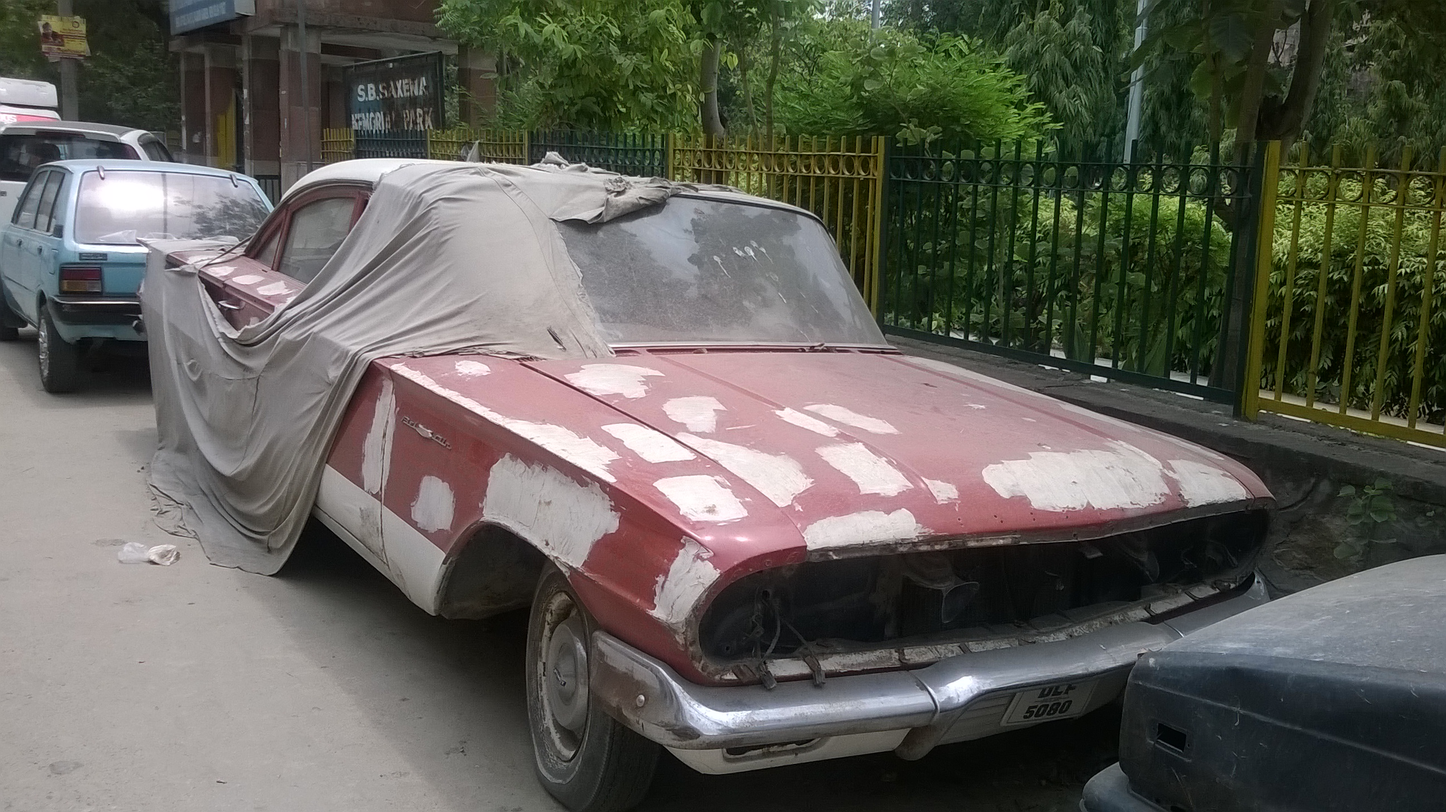
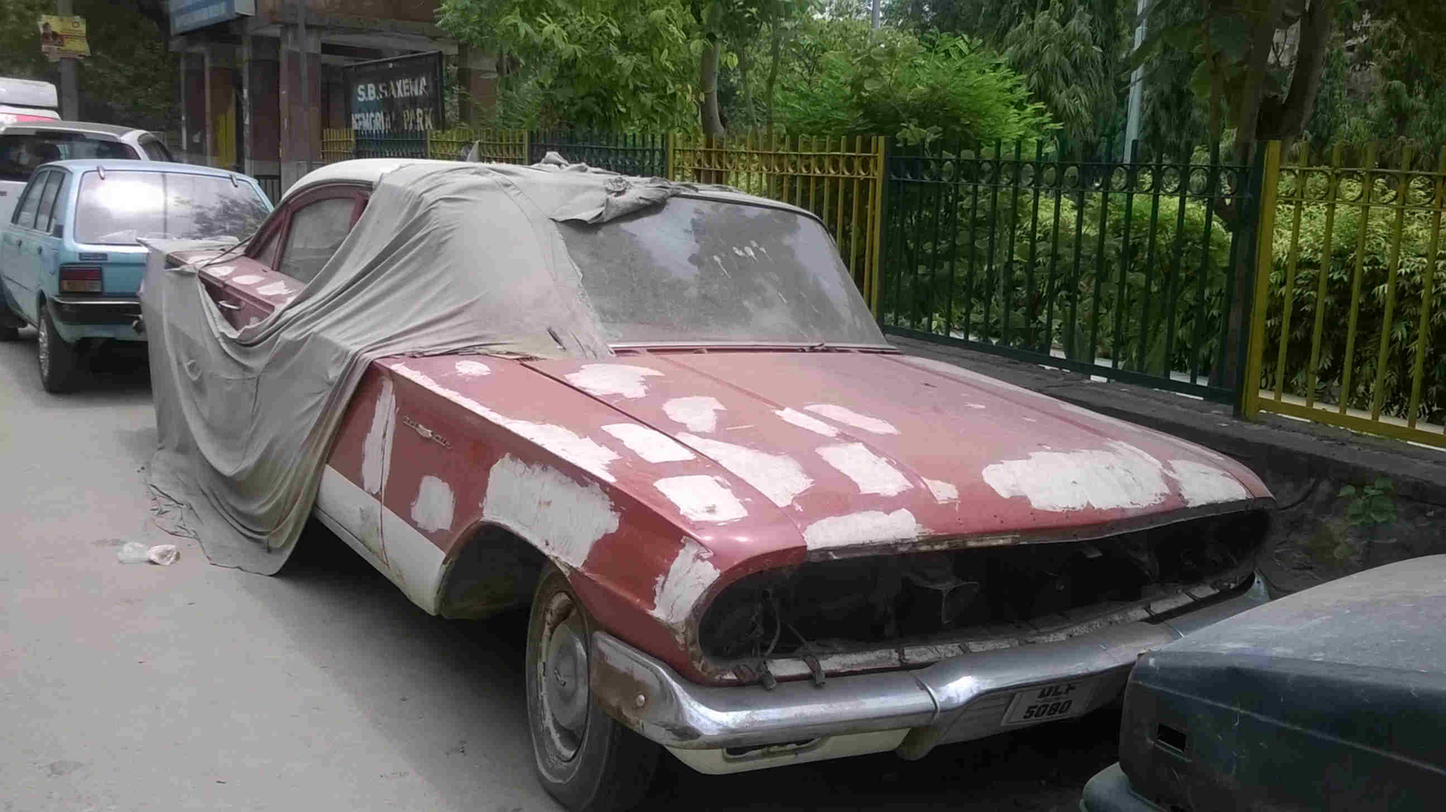
Optimised images and added some blog stuff

diff --git a/index.html b/index.html
@@ -40,7 +40,8 @@
 			<p class="lead t3">Here is what I wrote recently :</p>
 			<div class="latest-blog t4">
 				<h1 class="latest-blog-title"><a href=""><b id="post-title">Jesus Don't Want Me For A Sunbeam</b></a></h1>
-				<blockquote class="latest-blog-gist"><em>In our lives, we stay, visit, work, study, or just ‘hangout’ at certain typical places. Places which may be visually appealing and comfortable like a cafe at the corner down the road, or ...</em></blockquote><br>
+				<blockquote class="latest-blog-gist"><em>In our lives, we stay, visit, work, study, or just ‘hangout’ at certain typical places. Places which may be visually appealing and comfortable like a cafe at the corner down the road, or ...</em></blockquote>
+				<br>
 				<div class="row">
 					<span class="col-xs-6">
 				<a class="waves-effect waves-light btn blue darken-2">
@@ -59,8 +60,9 @@
 		<div class="starter-template about">
 			<h1 class="t1">About Me</h1>
 			<div class="t2">
-				<blockquote>I'm going to paraphrase Thoreau here : <b>Rather than money, than fame, than fairness, than comfort, give me love and kindness.</b></blockquote><br>
-				<p class="lead">Solely driven by the positive energy of the world, I try to utilize every bit of it into creating something meaningful and helpful for everyone. I &#10084; <b>JavaScript and node.js</b> and the web in general, for it still feels amazing to create useful applications accessible to the entire world. I also like to tinker with my custom assembled PC as well as with Ubuntu.  </p>
+				<blockquote>I'm going to paraphrase Thoreau here : <b>Rather than money, than fame, than fairness, than comfort, give me love and kindness.</b></blockquote>
+				<br>
+				<p class="lead">Solely driven by the positive energy of the world, I try to utilize every bit of it into creating something meaningful and helpful for everyone. I &#10084; <b>JavaScript and node.js</b> and the web in general, for it still feels amazing to create useful applications accessible to the entire world. I also like to tinker with my custom assembled PC as well as with Ubuntu. </p>
 			</div>
 			<p class="lead t3">Inclusion, collabloration and teamwork is something I whole heartedly enjoy, encourage and promote whenever I have leadership roles. Managing, leading, and helping fellow colleagues and juniors gives me a sense of responsibilty which I always strive to fulfill sincerely.</p>
 			<p class="lead t4">They call me an engineer by the formal records and documents, but I'm way beyond those walls. I have explored and taken thorough interest in numerous verticals and I feel more and more equipped to handle the everyday challenges in life, for today and tomorrow. Western Music, Theatre, Medicine, Anatomy, Psychology, Philanthropy, Economics and Polity, Management, Literature, and Cars; I indulge in these whenever I get time from my technical witchcraft-y projects and hangouts with my loved ones.</p>
@@ -69,12 +71,28 @@
 	<div class="container-fluid diapo" data-section-name="Blog">
 		<div class="starter-template blog">
 			<h1 class="t1">Blog</h1>
-			<p class="lead home-brief t2">Use this document as a way to quickly start any new project. Use this document as a way to quickly start any new project. Use this document as a way to quickly start any new project. Use this document as a way to quickly start any new project.</p>
-			<p class="lead t3">Here is what I wrote recently :</p>
-			<div class="latest-blog t4">
-				<h2><a href=""><b>Title</b></a></h2>
-				<blockquote><em>Use this document as a way to quickly start any new project. Use this document as a way to quickly start any new project. Use this document as a way to quickly start any new project.</em></blockquote>
-			</div>
+			<section class="blog-scroll t2">
+				<div class="row">
+					<div class="blog-snips col-xs-6">
+						<h2><a href=""><b>Title</b></a></h2>
+						<blockquote><em>Use this document as a way to quickly start any new project. Use this document as a way to quickly start any new project. Use this document as a way to quickly start any new project.</em></blockquote>
+					</div>
+					<div class="blog-snips col-xs-6">
+						<h2><a href=""><b>Title</b></a></h2>
+						<blockquote><em>Use this document as a way to quickly start any new project. Use this document as a way to quickly start any new project. Use this document as a way to quickly start any new project.</em></blockquote>
+					</div>
+				</div>
+				<div class="row">
+					<div class="blog-snips col-xs-6">
+						<h2><a href=""><b>Title</b></a></h2>
+						<blockquote><em>Use this document as a way to quickly start any new project. Use this document as a way to quickly start any new project. Use this document as a way to quickly start any new project.</em></blockquote>
+					</div>
+					<div class="blog-snips col-xs-6">
+						<h2><a href=""><b>Title</b></a></h2>
+						<blockquote><em>Use this document as a way to quickly start any new project. Use this document as a way to quickly start any new project. Use this document as a way to quickly start any new project.</em></blockquote>
+					</div>
+				</div>
+			</section>
 		</div>
 
 	</div>

diff --git a/js/app.js b/js/app.js
@@ -62,13 +62,13 @@ function anim(i, panels) {
 function getLatestPost() {
 	$.ajax({
 		method: 'GET',
-		url: 'http://192.168.1.6:3000/blog/latest',
+		url: 'https://localhost:3000/blog/latest',
 		success: function (data) {
 			// Get the data in right format
 			var post = data[0];
 			var title = post.title;
 			var content = post.content;
-			var fullURL = "https://sakshamsaxena.in/blog/#" + post.postId;
+			var fullURL = "https://localhost:80/blog/#" + post.postId;
 			content = content.substr(0, 190);
 			content = content.substr(0, content.lastIndexOf(" "));
 			content += " ...";
@@ -78,6 +78,10 @@ function getLatestPost() {
 			$(".latest-blog-gist").html(content);
 		}
 	})
+}
+
+function populateBlogSection() {
+	//TODO : Get posts number, make accordingly the rows and cols, and append!
 }
 
 $("body").on("dragover", drag_over);
@@ -94,6 +98,11 @@ $(".menu ul.collection .title").click(function (e) {
 	return true
 });
 
+$(document).ready(function () {
+	var ht = (window.innerHeight > 500) ? 400 : window.innerHeight;
+	$(".blog-scroll").css("height", ht+"px")
+});
+
 $(window).on("load", function () {
 	setTimeout(function () {
 		anim(0, document.getElementsByClassName("diapo"))
@@ -104,6 +113,7 @@ $(window).on("load", function () {
 $(function () {
 	var flag;
 	window.innerWidth <= 768 ? flag = true : flag = false;
+	console.log(flag);
 	$.scrollify({
 		section: ".diapo",
 		scrollbars: flag,

diff --git a/blog/index.html b/blog/index.html
@@ -56,32 +56,6 @@
 
 	</div>
 	
-	<!-- Menu Button (Draggable) -->
-	<div class="menu-button" draggable="true" id="dragme">
-		<span class="glyphicon glyphicon-th"></span>
-	</div>
-
-	<!-- Menu Section -->
-	<section class="menu">
-		<ul class="collection">
-			<li class="collection-item avatar">
-				<i class="material-icons circle teal">home</i>
-				<span class="title"><a href="#Home">Home</a></span>
-			</li>
-			<li class="collection-item avatar">
-				<i class="material-icons circle teal">perm_identity</i>
-				<span class="title"><a href="#About">About</a></span>
-			</li>
-			<li class="collection-item avatar">
-				<i class="material-icons circle teal">description</i>
-				<span class="title"><a href="#Blog">Blog</a></span>
-			</li>
-			<li class="collection-item avatar">
-				<i class="material-icons circle teal">mail_outline</i>
-				<span class="title"><a href="#Contact">Contact</a></span>
-			</li>
-		</ul>
-	</section>
 	<script src="../node_modules/jquery/dist/jquery.min.js"></script>
 	<script src="../node_modules/bootstrap/dist/js/bootstrap.min.js"></script>
 	<script src="../node_modules/materialize-css/dist/js/materialize.min.js"></script>

diff --git a/css/app.css b/css/app.css
@@ -86,6 +86,10 @@ section.menu {
 	font-size: 3em !important;
 	margin: 0 auto !important
 }
+.blog-scroll {
+	overflow-y: scroll;
+	overflow-x: hidden
+}
 blockquote {
 	font-family: 'Bad Script', cursive;
 	font-size: 1.6em;
